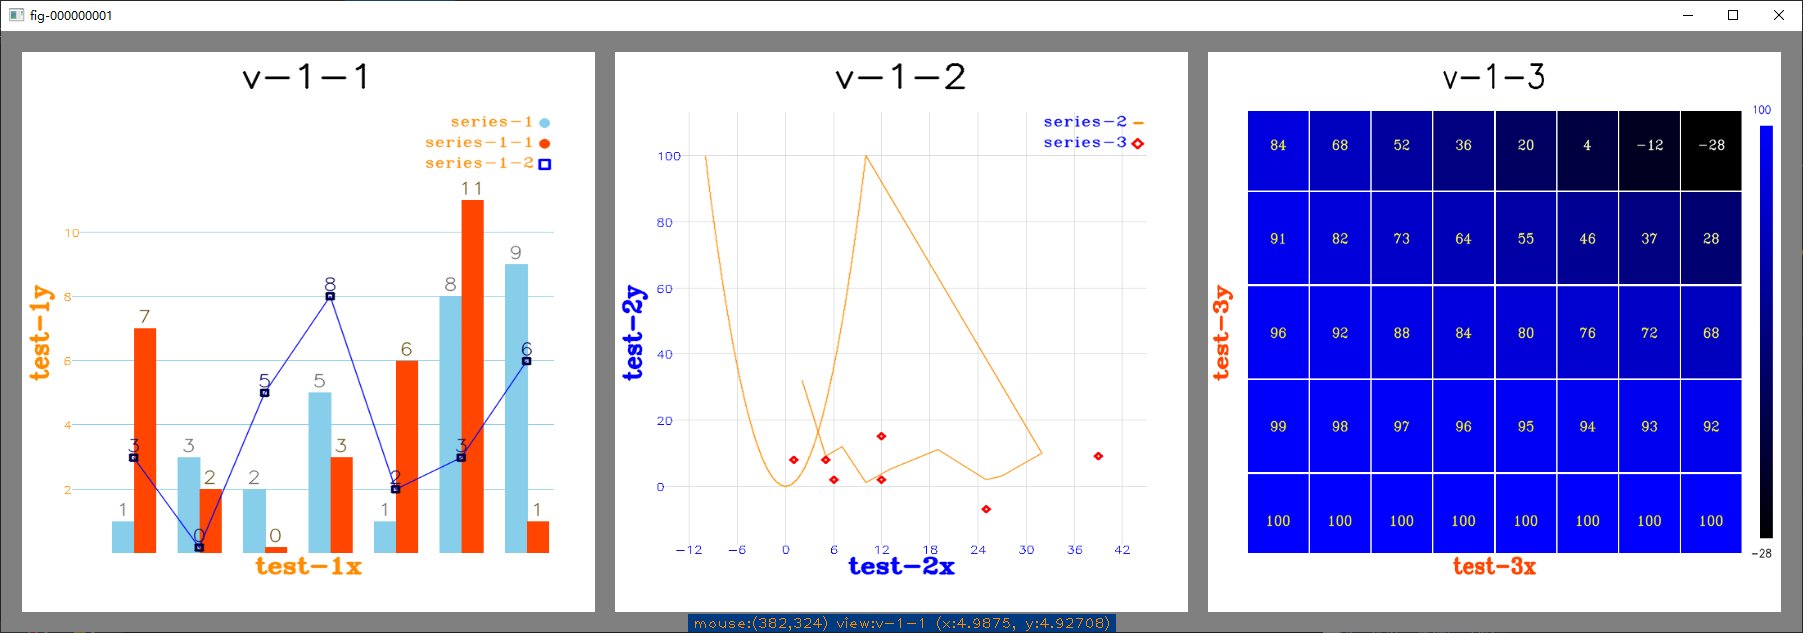
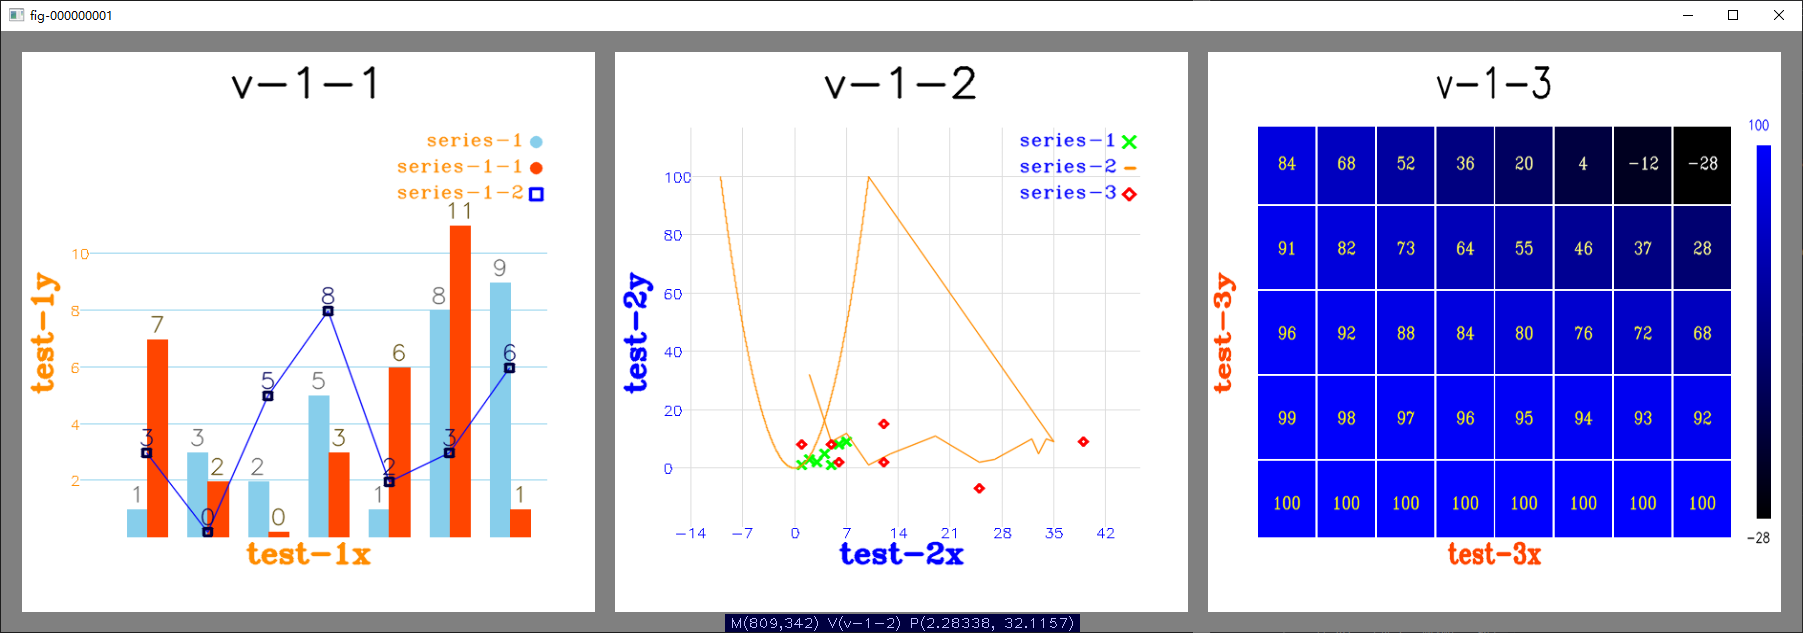
series: append array

diff --git a/src/cvplot.h b/src/cvplot.h
@@ -456,6 +456,32 @@ namespace cvplot
 			return *this;
 		}
 
+		Series& AppendArray(vector_type values)
+		{
+			if (dimension_ != 2)
+			{
+				return *this;
+			}
+
+			auto idx = values_.size();
+			if (!values_.empty())
+			{
+				idx = values_[idx - 2];
+			}
+			auto count = values.size();
+			for (int i = 0; i < count; ++i)
+			{
+				values_.push_back(++idx);
+				values_.push_back(values[i]);
+			}
+
+			if (idx > 0)
+			{
+				dirty_ = true;
+			}
+			return *this;
+		}
+
 		Series& Clear()
 		{
 			if (!values_.empty())
@@ -797,7 +823,7 @@ namespace cvplot
 			return *this;
 		}
 
-	public:	
+	public:
 		static Series Convert(Series& source, chart::Type chartType)
 		{
 			if (source.GetDimension() != 1 || chart::GetDimension(chartType) != 2)
@@ -1614,7 +1640,7 @@ namespace cvplot
 		static void event_handler(int event, int x, int y, int flags, void* param)
 		{
 			if (event == cv::EVENT_MOUSEMOVE
-				&& ( abs(x__ - x) > 0 || abs(y__ - y) > 0 ) )
+				&& (abs(x__ - x) > 0 || abs(y__ - y) > 0))
 			{
 				bool reset = false;
 				if (x > x_max__ || (x__ < 5 && x < x__) ||
@@ -1665,7 +1691,7 @@ namespace cvplot
 			{
 				res_width / total_cols_,
 				res_height / total_rows_
-			};			
+			};
 		}
 
 		~Figure()
@@ -2041,7 +2067,7 @@ namespace cvplot
 						}
 						++index;
 						roi.x += (view_size_.width + horizontal_margin_);
-					}					
+					}
 					roi.y += (view_size_.height + vertical_margin_);
 				}
 
@@ -2079,7 +2105,7 @@ namespace cvplot
 			}
 
 			int index = (row - 1) * total_cols_ + col - 1;
-			if (row > 0 && row <= total_rows_ && col > 0 && col<= total_cols_
+			if (row > 0 && row <= total_rows_ && col > 0 && col <= total_cols_
 				&& view_size_.width > 1 && view_size_.height > 1)
 			{
 				auto actual_size = views_[index].GetSize();

diff --git a/src/demo.cpp b/src/demo.cpp
@@ -24,7 +24,8 @@ int main()
 
 	auto s2 = cvplot::Series("series-2", cvplot::chart::Line)
 		.SetRenderColor(cvplot::color::DarkOrange)
-		.AddValues({ 2,32,5,9,7,12,10,1,13,5,19,11,25,2,27,3,32,10 });
+		.AddValues({ 2,32,5,9,7,12,10,1,13,5,19,11,25,2,27,3,32,10 })
+		.AppendArray({ 5,10,9 });
 
 	const int N = 10000;
 	for (int i = 0; i < N; ++i)
